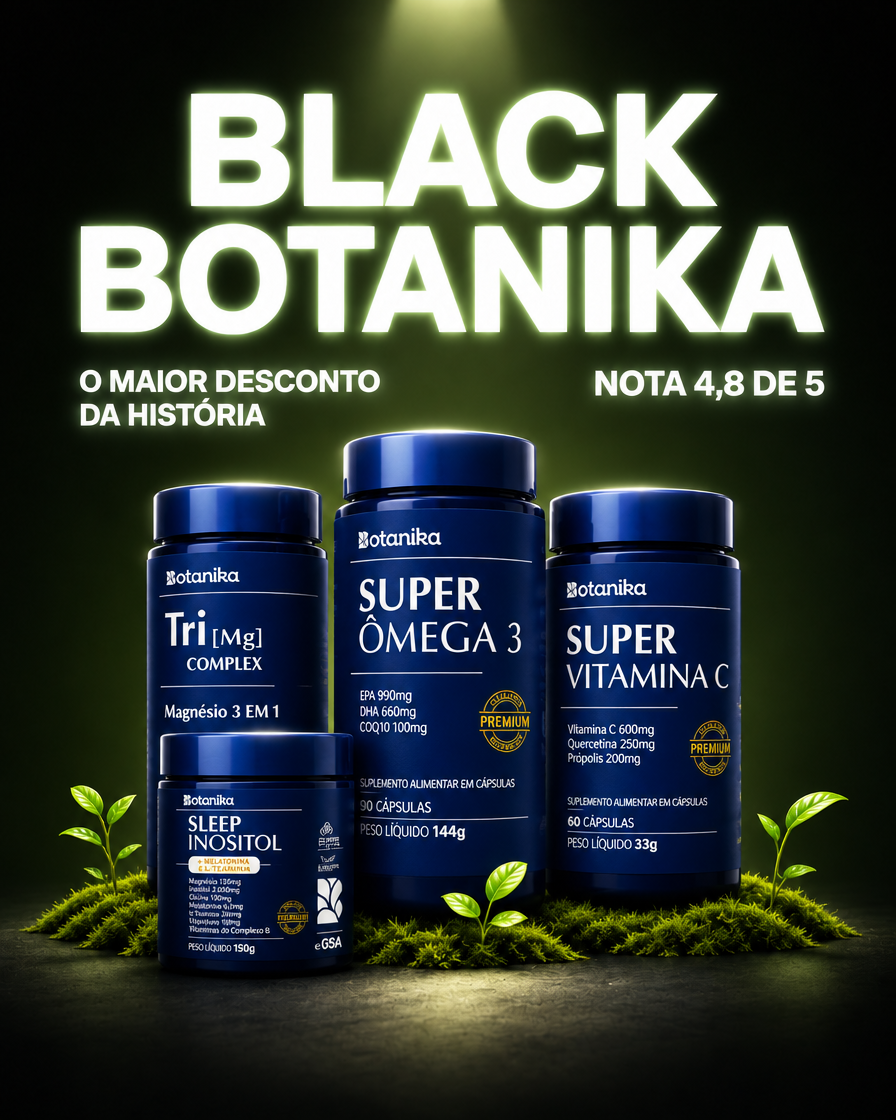
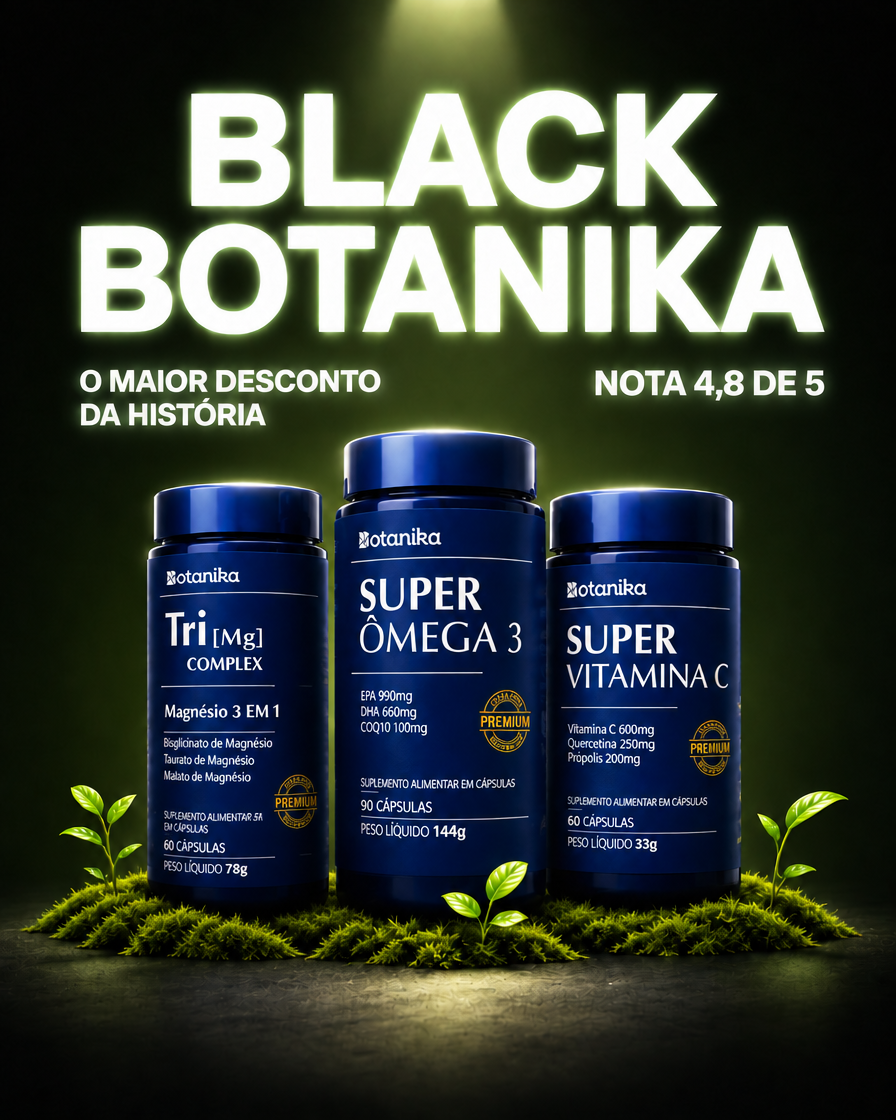
Tema Friday adiantado; correcao do rotulo do Sleep nas pecas
Claude-Session: https://claude.ai/code/session_01MWYgjJ38HScF71ZkjsPHNE

diff --git a/novembro-pedro/entregas/tema-botanika-friday/README.md b/novembro-pedro/entregas/tema-botanika-friday/README.md
@@ -5,6 +5,19 @@ Duplicado em 16/11 do tema 11/11 exclusivo (168318599400). Ele já tem a mesma l
 
 **Regra do Pedro (16/11): sem trava.** O tema só vai ao ar no dia da promoção, então tudo aparece direto, sem checar data nem pedir senha. Assim a prévia já mostra como vai ficar.
 
+## Feito em 16/11 (prévia: https://botanikabrasil.com.br/?preview_theme_id=168751628520)
+- **Sem trava:**
+  - saíram a tela fechada, a senha vip1111 e a checagem de data;
+  - a tarja, o banner e o aviso na página de produto aparecem sempre;
+  - a contagem vai até 28/11 23h59;
+  - "últimas horas" entra em 28/11 às 18h (`?ultimo=1` mostra antes, na prévia).
+- **Textos:** 11/11 trocado por Botanika Friday, até 30% OFF, frete grátis sem mínimo e vitamina C de brinde acima de R$ 500. O cashback dos 100 saiu (era só do 11/11).
+- **Brinde:**
+  - produto novo "Vitamina C · Brinde" (R$ 0, SKU 80.1.2, fora da vitrine, variante 68232738963688), que entra sozinho no carrinho acima de R$ 500;
+  - o cranberry da Week e o Q10 do 11/11 que sobrarem no carrinho (marcados com `_brinde`) saem sozinhos.
+- **Banners** (home mobile e desktop, coleção e últimas horas) no estilo novo. Estão nos arquivos da Shopify como `botanika-friday-*.png`, e os originais em `banners/`.
+- **% por produto: PROVISÓRIO.** É o mapa do 11/11 com teto de 30% (o que era 35% e 40% virou 30%), esperando o Vitor.
+
 ## Plano
 1. Tirar a tela fechada e a senha do 11/11 (`bk-1111`: vip1111, abertura às 00h e acesso antecipado).
 2. Trocar 11/11 → Botanika Friday em textos, tarja, contagem (até 28/11 23h59) e selo do seletor de potes.

diff --git a/novembro-pedro/DIARIO.md b/novembro-pedro/DIARIO.md
@@ -1305,3 +1305,13 @@
   - Renomeados pela ordem de entrada: 1 no ar, 2 Week, 3 Friday, 9 Oficial, e o resto como arquivo.
   - **Sem trava:** no tema da Week saíram as checagens de data (a Week aparece sempre na prévia; `?ultimo=1` mostra o último dia).
   - Tema da Friday duplicado do 11/11 (168751628520). Falta o mapa de % do Vitor. Plano em `entregas/tema-botanika-friday/README.md`.
+- **Tema da Friday adiantado (OK do Pedro):**
+  - sem trava;
+  - textos e banners da Friday;
+  - produto "Vitamina C · Brinde" criado (R$ 0, SKU 80.1.2);
+  - limpeza dos brindes antigos no carrinho;
+  - % provisório: o mapa do 11/11 com teto de 30%.
+- **Correção de rótulo:** em 5 peças de hoje (BF-N01, CM01, CM10, BW-N06 e U50), o pote do Sleep saiu com "+ MELATONINA", que o produto não tem.
+  - Refeitas sem o Sleep e trocadas no Drive. As erradas foram para a lixeira.
+  - Os banners da Friday também foram refeitos sem o Sleep.
+- ⚠ **Estoque da Super Vitamina C: 86 unidades** (16/11). Ela é brinde da Friday e da Cyber acima de R$ 500 e também é vendida. Avisar o Vitor.
